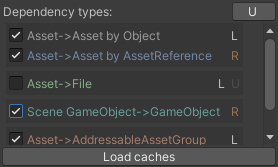
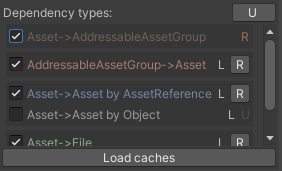
Loaded dependency types can now be partially activated and refreshed

diff --git a/AssetRelationsViewer/Editor/InSceneTypeHandler.cs b/AssetRelationsViewer/Editor/InSceneTypeHandler.cs
@@ -1,7 +1,9 @@
 using System.Collections.Generic;
 using Com.Innogames.Core.Frontend.NodeDependencyLookup;
 using UnityEditor;
+using UnityEditor.SceneManagement;
 using UnityEngine;
+using UnityEngine.SceneManagement;
 
 namespace Com.Innogames.Core.Frontend.AssetRelationsViewer
 {
@@ -13,13 +15,15 @@ namespace Com.Innogames.Core.Frontend.AssetRelationsViewer
 
     public class InSceneTypeHandler : ITypeHandler
     {
-        private const string SyncPrefKey = "InSceneSync";
+        private const string SyncPrefKey = "InSceneTypeHandler_Sync";
+        private const string AutoRefreshPrefKey = "InSceneTypeHandler_AutoRefresh";
         private AssetRelationsViewerWindow _viewerWindow;
         private InSceneDependencyNodeHandler _nodeHandler;
 
         private HashSet<string> _nodes = new HashSet<string>();
 
         private GameObject _currentNode = null;
+        private int _currentLoadedSceneKey;
 
         public string GetHandledType()
         {
@@ -65,8 +69,8 @@ namespace Com.Innogames.Core.Frontend.AssetRelationsViewer
 
         public void OnGui()
         {
-            EditorPrefs.SetBool(SyncPrefKey, 
-                EditorGUILayout.ToggleLeft("Sync to Hierarchy:", EditorPrefs.GetBool(SyncPrefKey, false)));
+            EditorPrefs.SetBool(SyncPrefKey, EditorGUILayout.ToggleLeft("Sync to Hierarchy:", EditorPrefs.GetBool(SyncPrefKey, false)));
+            EditorPrefs.SetBool(AutoRefreshPrefKey, EditorGUILayout.ToggleLeft("Auto refresh scene change:", EditorPrefs.GetBool(AutoRefreshPrefKey, false)));
 
             GameObject newSelection = EditorGUILayout.ObjectField(_currentNode, typeof(GameObject), true) as GameObject;
 
@@ -77,6 +81,8 @@ namespace Com.Innogames.Core.Frontend.AssetRelationsViewer
             {
                 _viewerWindow.ChangeSelection(_currentNode.GetHashCode().ToString(), InSceneNodeType.Name);
             }
+            
+            AutoRefreshSceneAfterChange();
         }
 
         public void OnSelectAsset(string id, string type)
@@ -114,6 +120,11 @@ namespace Com.Innogames.Core.Frontend.AssetRelationsViewer
 
             Selection.selectionChanged += SelectionChanged;
         }
+        
+        public bool HandlesCurrentNode()
+        {
+            return _currentNode != null;
+        }
 
         private void SelectionChanged()
         {
@@ -139,10 +150,35 @@ namespace Com.Innogames.Core.Frontend.AssetRelationsViewer
                 _viewerWindow.Repaint();
             }
         }
-
-        public bool HandlesCurrentNode()
+        
+        private void AutoRefreshSceneAfterChange()
         {
-            return _currentNode != null;
+            if (!EditorPrefs.GetBool(AutoRefreshPrefKey))
+            {
+                return;
+            }
+            
+            int loadedScenesKey = GetLoadedScenesKey();
+            
+            if (_currentLoadedSceneKey != 0 && loadedScenesKey != _currentLoadedSceneKey)
+            {
+                _viewerWindow.UpdateCacheForCacheAndResolver(typeof(OpenSceneDependencyCache), typeof(InSceneDependencyResolver));
+            }
+            
+            _currentLoadedSceneKey = loadedScenesKey;
+        }
+
+        private int GetLoadedScenesKey()
+        {
+            int result = 0;
+            
+            for (int i = 0; i < EditorSceneManager.loadedSceneCount; ++i)
+            {
+                Scene scene = EditorSceneManager.GetSceneAt(i);
+                result ^= scene.name.GetHashCode();
+            }
+
+            return result;
         }
     }
 }

diff --git a/AssetRelationsViewer/Editor/AssetRelationsViewerWindow.cs b/AssetRelationsViewer/Editor/AssetRelationsViewerWindow.cs
@@ -911,6 +911,13 @@ namespace Com.Innogames.Core.Frontend.AssetRelationsViewer
 							EditorGUILayout.LabelField("U", GUILayout.MaxWidth(10));
 							_canUnloadCaches = true;
 						}
+
+						GUIContent refreshContent = new GUIContent("R", $"Refresh dependencies for {dependencyType.Name}");
+						
+						if (isActiveAndLoaded && newIsActive && GUILayout.Button(refreshContent, GUILayout.MaxWidth(20)))
+						{
+							UpdateCacheForCacheAndResolver(cacheState.Cache.GetType(), resolverState.Resolver.GetType());
+						}
 						
 						EditorGUILayout.EndHorizontal();
 					}
@@ -943,8 +950,25 @@ namespace Com.Innogames.Core.Frontend.AssetRelationsViewer
 			EditorGUILayout.EndVertical();
 		}
 
+		public void UpdateCacheForCacheAndResolver(Type cacheType, Type resolverType)
+		{
+			ResolverUsageDefinitionList resolverUsageDefinitionList = new ResolverUsageDefinitionList();
+			resolverUsageDefinitionList.Add(cacheType, resolverType, true, true, true);
+
+			UpdateCacheForCacheAndResolver(resolverUsageDefinitionList);
+		}
+
+		private void UpdateCacheForCacheAndResolver(ResolverUsageDefinitionList resolverUsageDefinitionList)
+		{
+			NodeDependencyLookupUtility.LoadDependencyLookupForCaches(_nodeDependencyLookupContext, resolverUsageDefinitionList, true);
+			InvalidateNodeStructure();
+			SetHandlerContext();
+		}
+
 		private void UpdateCacheAndResolverActivation()
 		{
+			ResolverUsageDefinitionList resolverUsageDefinitionList = new ResolverUsageDefinitionList();
+			
 			foreach (CacheState cacheState in _cacheStates)
 			{
 				bool cacheNeedsActivation = false;
@@ -957,6 +981,11 @@ namespace Com.Innogames.Core.Frontend.AssetRelationsViewer
 					{
 						resolverNeedsActivation |= resolverState.ActiveConnectionTypes.Contains(connectionType);
 					}
+					
+					if (!resolverState.IsActive && resolverNeedsActivation)
+					{
+						resolverUsageDefinitionList.Add(cacheState.Cache.GetType(), resolverState.Resolver.GetType(), true, true, true);
+					}
 
 					resolverState.IsActive = resolverNeedsActivation;
 					cacheNeedsActivation |= resolverState.IsActive;
@@ -965,9 +994,8 @@ namespace Com.Innogames.Core.Frontend.AssetRelationsViewer
 				cacheState.IsActive = cacheNeedsActivation;
 				cacheState.SaveState();
 			}
-
-			ReloadContext(true);
-			InvalidateNodeStructure();
+			
+			UpdateCacheForCacheAndResolver(resolverUsageDefinitionList);
 		}
 
 		private HashSet<string> GetConnectionTypesToDisplay()

diff --git a/NodeDependencyLookup/Editor/Utility/NodeDependencyLookupUtility.cs b/NodeDependencyLookup/Editor/Utility/NodeDependencyLookupUtility.cs
@@ -46,7 +46,7 @@ namespace Com.Innogames.Core.Frontend.NodeDependencyLookup
         public static bool IsResolverActive(CreatedDependencyCache createdCache, string id, string connectionType)
         {
             Dictionary<string, CreatedResolver> resolverUsagesLookup = createdCache.ResolverUsagesLookup;
-            return resolverUsagesLookup.ContainsKey(id) && resolverUsagesLookup[id].ConnectionTypes.Contains(connectionType);
+            return resolverUsagesLookup.ContainsKey(id) && resolverUsagesLookup[id].DependencyTypes.Contains(connectionType);
         }
 
         public static long[] GetTimeStampsForFiles(string[] pathes)
@@ -84,8 +84,13 @@ namespace Com.Innogames.Core.Frontend.NodeDependencyLookup
         }
 
         public static void LoadDependencyLookupForCaches(NodeDependencyLookupContext stateContext,
-            ResolverUsageDefinitionList resolverUsageDefinitionList, string fileDirectory = DEFAULT_CACHE_SAVE_PATH)
+            ResolverUsageDefinitionList resolverUsageDefinitionList, bool isPartialUpdate = false, string fileDirectory = DEFAULT_CACHE_SAVE_PATH)
         {
+            if (!isPartialUpdate)
+            {
+                stateContext.ResetCacheUsages();
+            }
+            
             stateContext.UpdateFromDefinition(resolverUsageDefinitionList);
 
             List<CreatedDependencyCache> caches = stateContext.GetCaches();
@@ -507,7 +512,7 @@ namespace Com.Innogames.Core.Frontend.NodeDependencyLookup
             ResolverUsageDefinitionList usageDefinitionList = new ResolverUsageDefinitionList();
             usageDefinitionList.Add<AssetDependencyCache, ObjectSerializedDependencyResolver>(loadFromCache, true, false);
 
-            LoadDependencyLookupForCaches(stateContext, usageDefinitionList, savePath);
+            LoadDependencyLookupForCaches(stateContext, usageDefinitionList, false, savePath);
         }
     }
 }

diff --git a/NodeDependencyLookup/Editor/DependencyResolvers/CreatedResolver.cs b/NodeDependencyLookup/Editor/DependencyResolvers/CreatedResolver.cs
@@ -18,7 +18,7 @@ namespace Com.Innogames.Core.Frontend.NodeDependencyLookup
 		public Dictionary<string, CreatedResolver> ResolverUsagesLookup = new Dictionary<string, CreatedResolver>();
 		public Dictionary<string, CreatedResolver> CreatedResolvers = new Dictionary<string, CreatedResolver>();
 
-		public void AddResolver(Type resolverType, List<string> connectionTypes)
+		public void AddResolver(Type resolverType, List<string> dependencyTypes)
 		{
 			string resolverTypeFullName = resolverType.FullName;
 			
@@ -30,13 +30,16 @@ namespace Com.Innogames.Core.Frontend.NodeDependencyLookup
 			}
 
 			CreatedResolver createdResolver = CreatedResolvers[resolverTypeFullName];
+			string resolverId = createdResolver.Resolver.GetId();
 
-			string[] collection = connectionTypes != null ? connectionTypes.ToArray() : createdResolver.Resolver.GetDependencyTypes();
-			createdResolver.ConnectionTypes = new HashSet<string>(collection);
-			
-			ResolverUsages.Add(createdResolver);
-			ResolverUsagesLookup.Add(createdResolver.Resolver.GetId(), createdResolver);
+			if (!ResolverUsagesLookup.ContainsKey(resolverId))
+			{
+				ResolverUsages.Add(createdResolver);
+				ResolverUsagesLookup.Add(resolverId, createdResolver);
+			}
 
+			string[] collection = dependencyTypes != null ? dependencyTypes.ToArray() : createdResolver.Resolver.GetDependencyTypes();
+			createdResolver.DependencyTypes = new HashSet<string>(collection);
 			createdResolver.IsActive = true;
 		}
 
@@ -60,7 +63,7 @@ namespace Com.Innogames.Core.Frontend.NodeDependencyLookup
 		}
 		
 		public bool IsActive;
-		public HashSet<string> ConnectionTypes = new HashSet<string>();
+		public HashSet<string> DependencyTypes = new HashSet<string>();
 		public IDependencyResolver Resolver;
 	}
 }

diff --git a/NodeDependencyLookup/Editor/Caches/AssetDependencyCache/AssetNode.cs b/NodeDependencyLookup/Editor/Caches/AssetDependencyCache/AssetNode.cs
@@ -107,7 +107,7 @@ namespace Com.Innogames.Core.Frontend.NodeDependencyLookup
 
 				foreach (Dependency dependency in data.Dependencies)
 				{
-					if (dependencyCache.ConnectionTypes.Contains(dependency.DependencyType))
+					if (dependencyCache.DependencyTypes.Contains(dependency.DependencyType))
 					{
 						result.Add(dependency);
 					}

diff --git a/NodeDependencyLookup/Editor/Caches/AssetDependencyCache/NodeDependencyLookupContext.cs b/NodeDependencyLookup/Editor/Caches/AssetDependencyCache/NodeDependencyLookupContext.cs
@@ -39,8 +39,6 @@ namespace Com.Innogames.Core.Frontend.NodeDependencyLookup
 		
 		public void UpdateFromDefinition(ResolverUsageDefinitionList definitionList)
 		{
-			ResetCacheUsages();
-			
 			foreach (ResolverUsageDefinitionList.Entry entry in definitionList.CacheUsages)
 			{
 				string cacheTypeFullName = entry.CacheType.FullName;

diff --git a/README.md b/README.md
@@ -107,6 +107,7 @@ Unused dependency types can be unloaded by clicking on the <b>U</b> button.
 **L** Dependency type is active and currently loaded <br/>
 **R** Dependency type got activated but needs to be loaded <br/>
 **U** Dependency type got deactivated and can be unloaded <br/>
+**R Button** Refreshes the dependencies just for this dependency type
 
 ## Dependency types
 
@@ -206,7 +207,7 @@ There can be cases where no tree is shown in the AssetRelationsViewer
 # Standalone dependency cache
 The dependency cache can be used without the AssetRelationsViewer. <br/>
 This makes it possible to use the cache for other tools where dependency information between assets, files, etc. is required. <br/>
-In the following example we log all assets that are contained in the ActionOption prefab.
+In the following example we find out which asset have a dependency on the BaseProductions prefab.
 
 ```c#
 NodeDependencyLookupContext context = new NodeDependencyLookupContext();
@@ -217,7 +218,7 @@ resolverList.Add<AssetToFileDependencyCache, AssetToFileDependencyResolver>(true
 
 NodeDependencyLookupUtility.LoadDependencyLookupForCaches(context, resolverList);
 
-// Get guid for ActionOption prefab
+// Get guid for BaseProductions prefab
 string[] assetGuids = AssetDatabase.FindAssets("t:prefab BaseProductions");
 
 // Nodehandlers to get further information about nodes like the name, type, size, etc.
